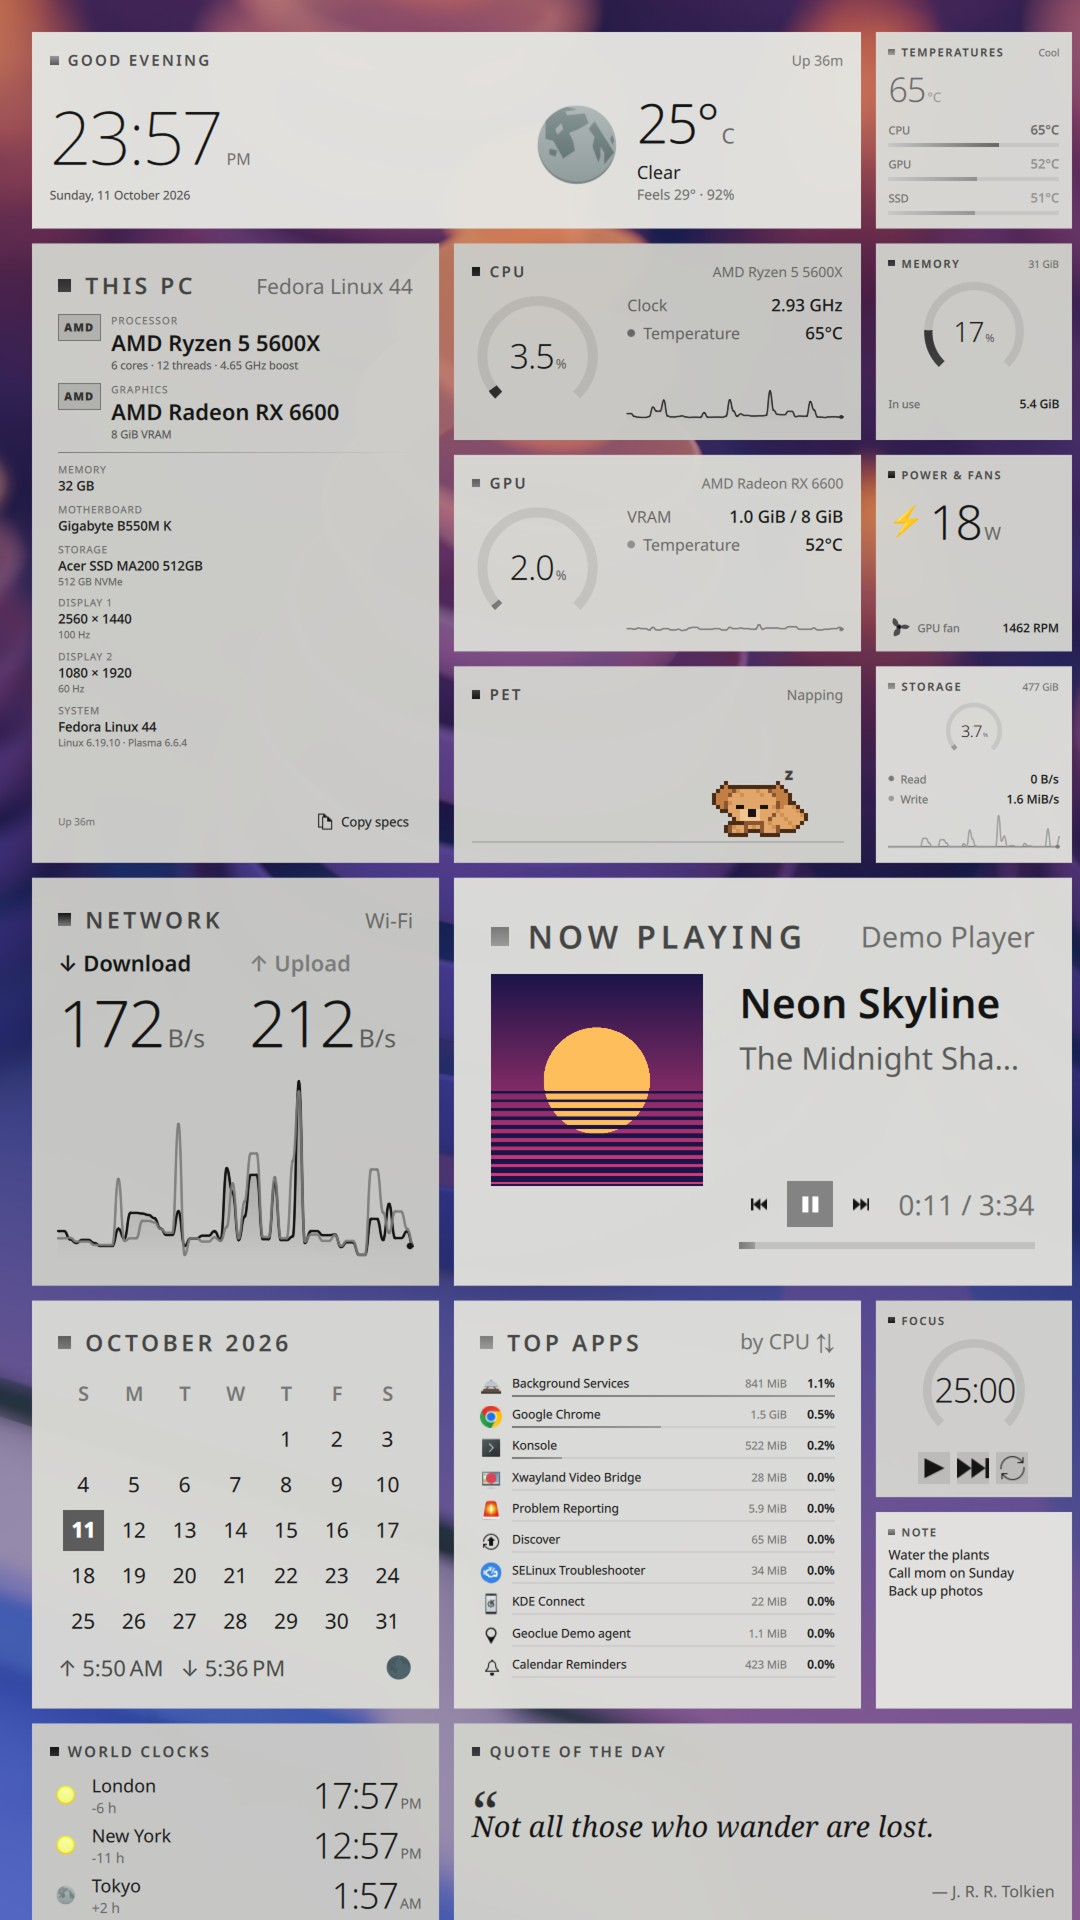
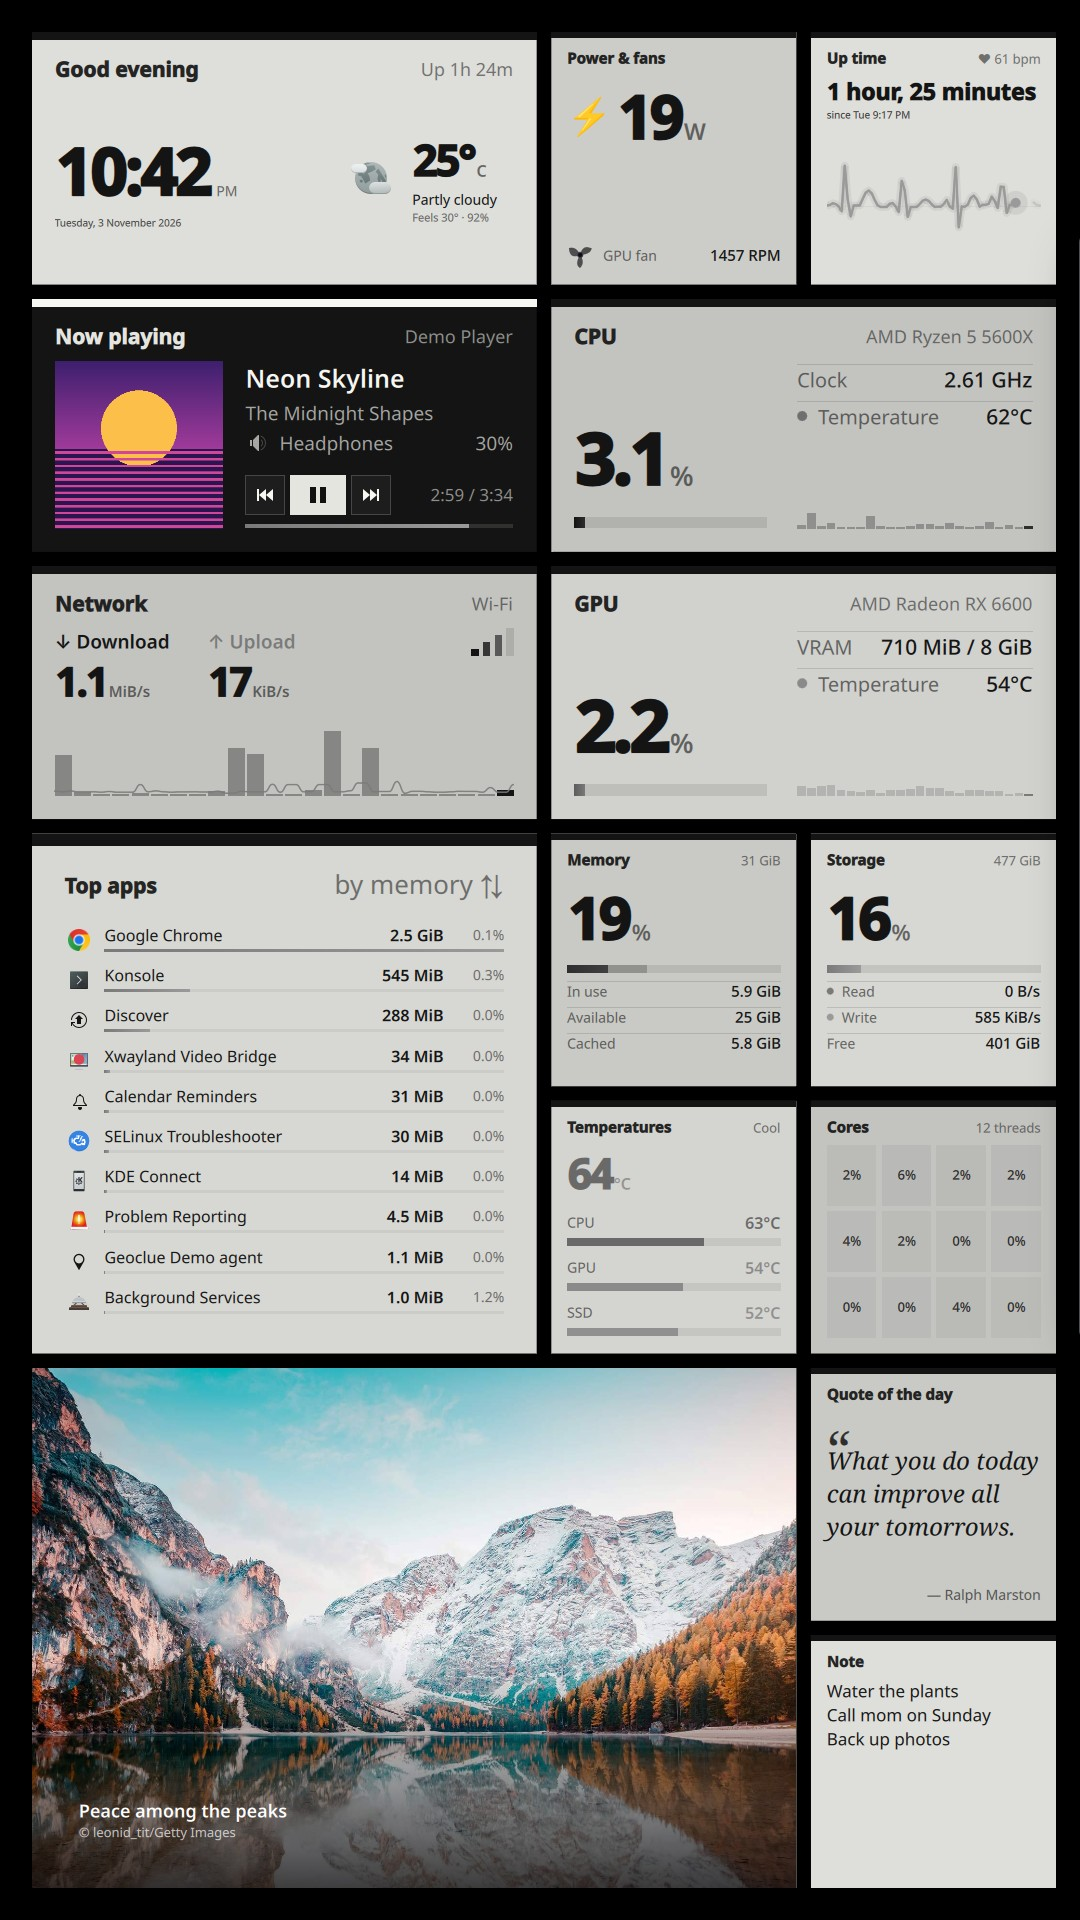
Release 0.10.1: readouts no longer cut off, new screenshots
In Instrument Panel a long value (the GPU's "707 MiB / 8 GiB") was
capped at 65% of its row and cut to "… MiB / 8 GiB"; a readout's value
now takes what it needs and the dotted leader, then the label, give way.

New hero and screenshots of the redesigned looks for the website and the
KDE Store (Plasma, Aurora Glass, Soft Bento, Instrument Panel, Neon
Nights, Retro Terminal, Clay, Poster Pop, Paper), with the gallery,
store description and README counts brought up to date.

diff --git a/docs/index.html b/docs/index.html
@@ -186,7 +186,7 @@
     <p class="small">Fedora, Kubuntu, Debian 13, openSUSE, Arch, Manjaro, KDE neon, Bazzite and more</p>
     <div class="stage">
       <div class="pet" role="img" aria-label="The pixel poodle walking by"></div>
-      <img class="shot" src="hero.png" width="2400" height="1300" alt="Solidget in the Plasma style, with the Aurora Glass, Retro Terminal and Paper looks behind it">
+      <img class="shot" src="hero.png" width="2400" height="1300" alt="Solidget in the Plasma style, with the Soft Bento, Neon Nights and Retro Terminal looks behind it">
     </div>
   </header>
 
@@ -202,7 +202,7 @@
       <div class="card">
         <div class="icon" style="--c: var(--green)"><svg viewBox="0 0 24 24" fill="none" stroke="currentColor" stroke-width="2" stroke-linecap="round" stroke-linejoin="round"><circle cx="13.5" cy="6.5" r="1.5"/><circle cx="17.5" cy="10.5" r="1.5"/><circle cx="8.5" cy="7.5" r="1.5"/><circle cx="6.5" cy="12.5" r="1.5"/><path d="M12 2a10 10 0 1 0 0 20c1.1 0 2-.9 2-2 0-.5-.2-1-.5-1.3-.3-.4-.5-.8-.5-1.3 0-1.1.9-2 2-2h2.4A5.6 5.6 0 0 0 22 9.8C22 5.5 17.5 2 12 2Z"/></svg></div>
         <h3>Your look</h3>
-        <p>Matches your Plasma Style and accent color out of the box. Or pick from 4 more styles × 10 color themes.</p>
+        <p>Matches your Plasma Style and accent color out of the box. Or pick from 9 more styles × 22 color themes, and fine-tune the corners, cards and shadows.</p>
       </div>
       <div class="card">
         <div class="icon" style="--c: var(--orange)"><svg viewBox="0 0 24 24" fill="none" stroke="currentColor" stroke-width="2" stroke-linecap="round" stroke-linejoin="round"><path d="M5 9 2 12l3 3M9 5l3-3 3 3M15 19l-3 3-3-3M19 9l3 3-3 3M2 12h20M12 2v20"/></svg></div>
@@ -240,12 +240,28 @@
         <figcaption><b>Aurora Glass</b>Soft frosted glass</figcaption>
       </figure>
       <figure>
-        <img src="screenshots/retro-terminal.jpg" width="1080" height="1920" loading="lazy" alt="Solidget in the Retro Terminal look">
-        <figcaption><b>Retro Terminal</b>Green pixels on black</figcaption>
+        <img src="screenshots/soft-bento.jpg" width="1080" height="1920" loading="lazy" alt="Solidget in the Soft Bento look">
+        <figcaption><b>Soft Bento</b>Pastel cards, big friendly numbers</figcaption>
       </figure>
       <figure>
-        <img src="screenshots/paper.jpg" width="1080" height="1920" loading="lazy" alt="Solidget in the Paper look">
-        <figcaption><b>Paper</b>Calm and light</figcaption>
+        <img src="screenshots/instrument-panel.jpg" width="1080" height="1920" loading="lazy" alt="Solidget in the Instrument Panel look">
+        <figcaption><b>Instrument Panel</b>Readouts and tick-mark dials</figcaption>
+      </figure>
+      <figure>
+        <img src="screenshots/neon-nights.jpg" width="1080" height="1920" loading="lazy" alt="Solidget in the Neon Nights look">
+        <figcaption><b>Neon Nights</b>Glowing outlines in the dark</figcaption>
+      </figure>
+      <figure>
+        <img src="screenshots/retro-terminal.jpg" width="1080" height="1920" loading="lazy" alt="Solidget in the Retro Terminal look">
+        <figcaption><b>Retro Terminal</b>A game HUD in green pixels</figcaption>
+      </figure>
+      <figure>
+        <img src="screenshots/clay.jpg" width="1080" height="1920" loading="lazy" alt="Solidget in the Clay look">
+        <figcaption><b>Clay</b>Soft raised cards</figcaption>
+      </figure>
+      <figure>
+        <img src="screenshots/poster-pop.jpg" width="1080" height="1920" loading="lazy" alt="Solidget in the Poster Pop look">
+        <figcaption><b>Poster Pop</b>Ink borders, loud colors</figcaption>
       </figure>
     </div>
   </section>

diff --git a/package/contents/ui/DetailRow.qml b/package/contents/ui/DetailRow.qml
@@ -47,6 +47,7 @@ Item {
             color: row.dot
         }
         PlasmaComponents.Label {
+            id: labelText
             textFormat: Text.PlainText
             text: row.label
             opacity: row.readout ? 0.55 : 0.6
@@ -63,6 +64,7 @@ Item {
             visible: row.readout
             Layout.fillWidth: true
             Layout.preferredWidth: 0      // not its path's width, or the row loops
+            Layout.minimumWidth: 0        // gives way first when the value is long
             Layout.preferredHeight: 1
             Layout.alignment: Qt.AlignVCenter
             Layout.topMargin: row.u * 0.3
@@ -83,7 +85,13 @@ Item {
             font.pixelSize: Math.max(Kirigami.Theme.smallFont.pixelSize, row.u * 0.85)
             font.weight: Font.Medium
             font.features: { "tnum": 1 }
-            Layout.maximumWidth: row.maxValueWidth
+            // Whatever the label doesn't need: a long value ("707 MiB / 8 GiB"
+            // in a fixed-width font) shouldn't be cut while there's room.
+            // A readout's value takes what it needs: the dotted leader gives
+            // way first, then the label.
+            Layout.maximumWidth: row.readout ? Number.POSITIVE_INFINITY
+                : Math.max(row.maxValueWidth, row.width - labelText.implicitWidth - row.u * 1.5)
+            Layout.minimumWidth: row.readout ? Math.min(implicitWidth, row.width * 0.8) : 0
             elide: Text.ElideLeft
         }
     }

diff --git a/README.md b/README.md
@@ -15,8 +15,9 @@ and the little everyday things, all in one good-looking board.
   (the real sky, a heartbeat, a sleepy face, planets or your own picture).
 - **A pixel pet** (a poodle or a cat) with its own room and bed. Pet it, give it treats,
   play fetch, bath it, walk it to the park, the snow or the beach, and clean up if you forget.
-- **Your look.** 7 styles (Plasma, Glass, Flat, Clear, Pixel, Instrument, Bento) × 15 color
-  themes, or pick a ready-made look like *Retro Terminal*, *Instrument Panel* or *Soft Bento*.
+- **Your look.** 10 styles (Plasma, Glass, Flat, Clear, Pixel, Instrument, Bento, Neon, Soft,
+  Brutal) × 23 color themes, each style laying the tiles out its own way. Or pick a ready-made
+  look like *Soft Bento*, *Neon Nights* or *Retro Terminal*, and fine-tune any of them.
 - **Fits any space.** A corner card, a sidebar, or a whole spare monitor,
   landscape or portrait. Tiles arrange themselves.
 - **Arrange it your way.** Drag tiles, resize them, hide the ones you don't need.

diff --git a/CHANGELOG.md b/CHANGELOG.md
@@ -1,5 +1,12 @@
 # What's new
 
+## 0.10.1
+
+- **No more cut-off readouts.** In Instrument Panel, long values such as
+  the GPU's memory ("707 MiB / 8 GiB") showed as "… MiB / 8 GiB". The
+  dotted leader now gives way first, then the label.
+- **New screenshots** of the redesigned looks on the website and store page.
+
 ## 0.10.0
 
 - **Three new styles.** *Neon* (dark panes outlined in glowing light),
